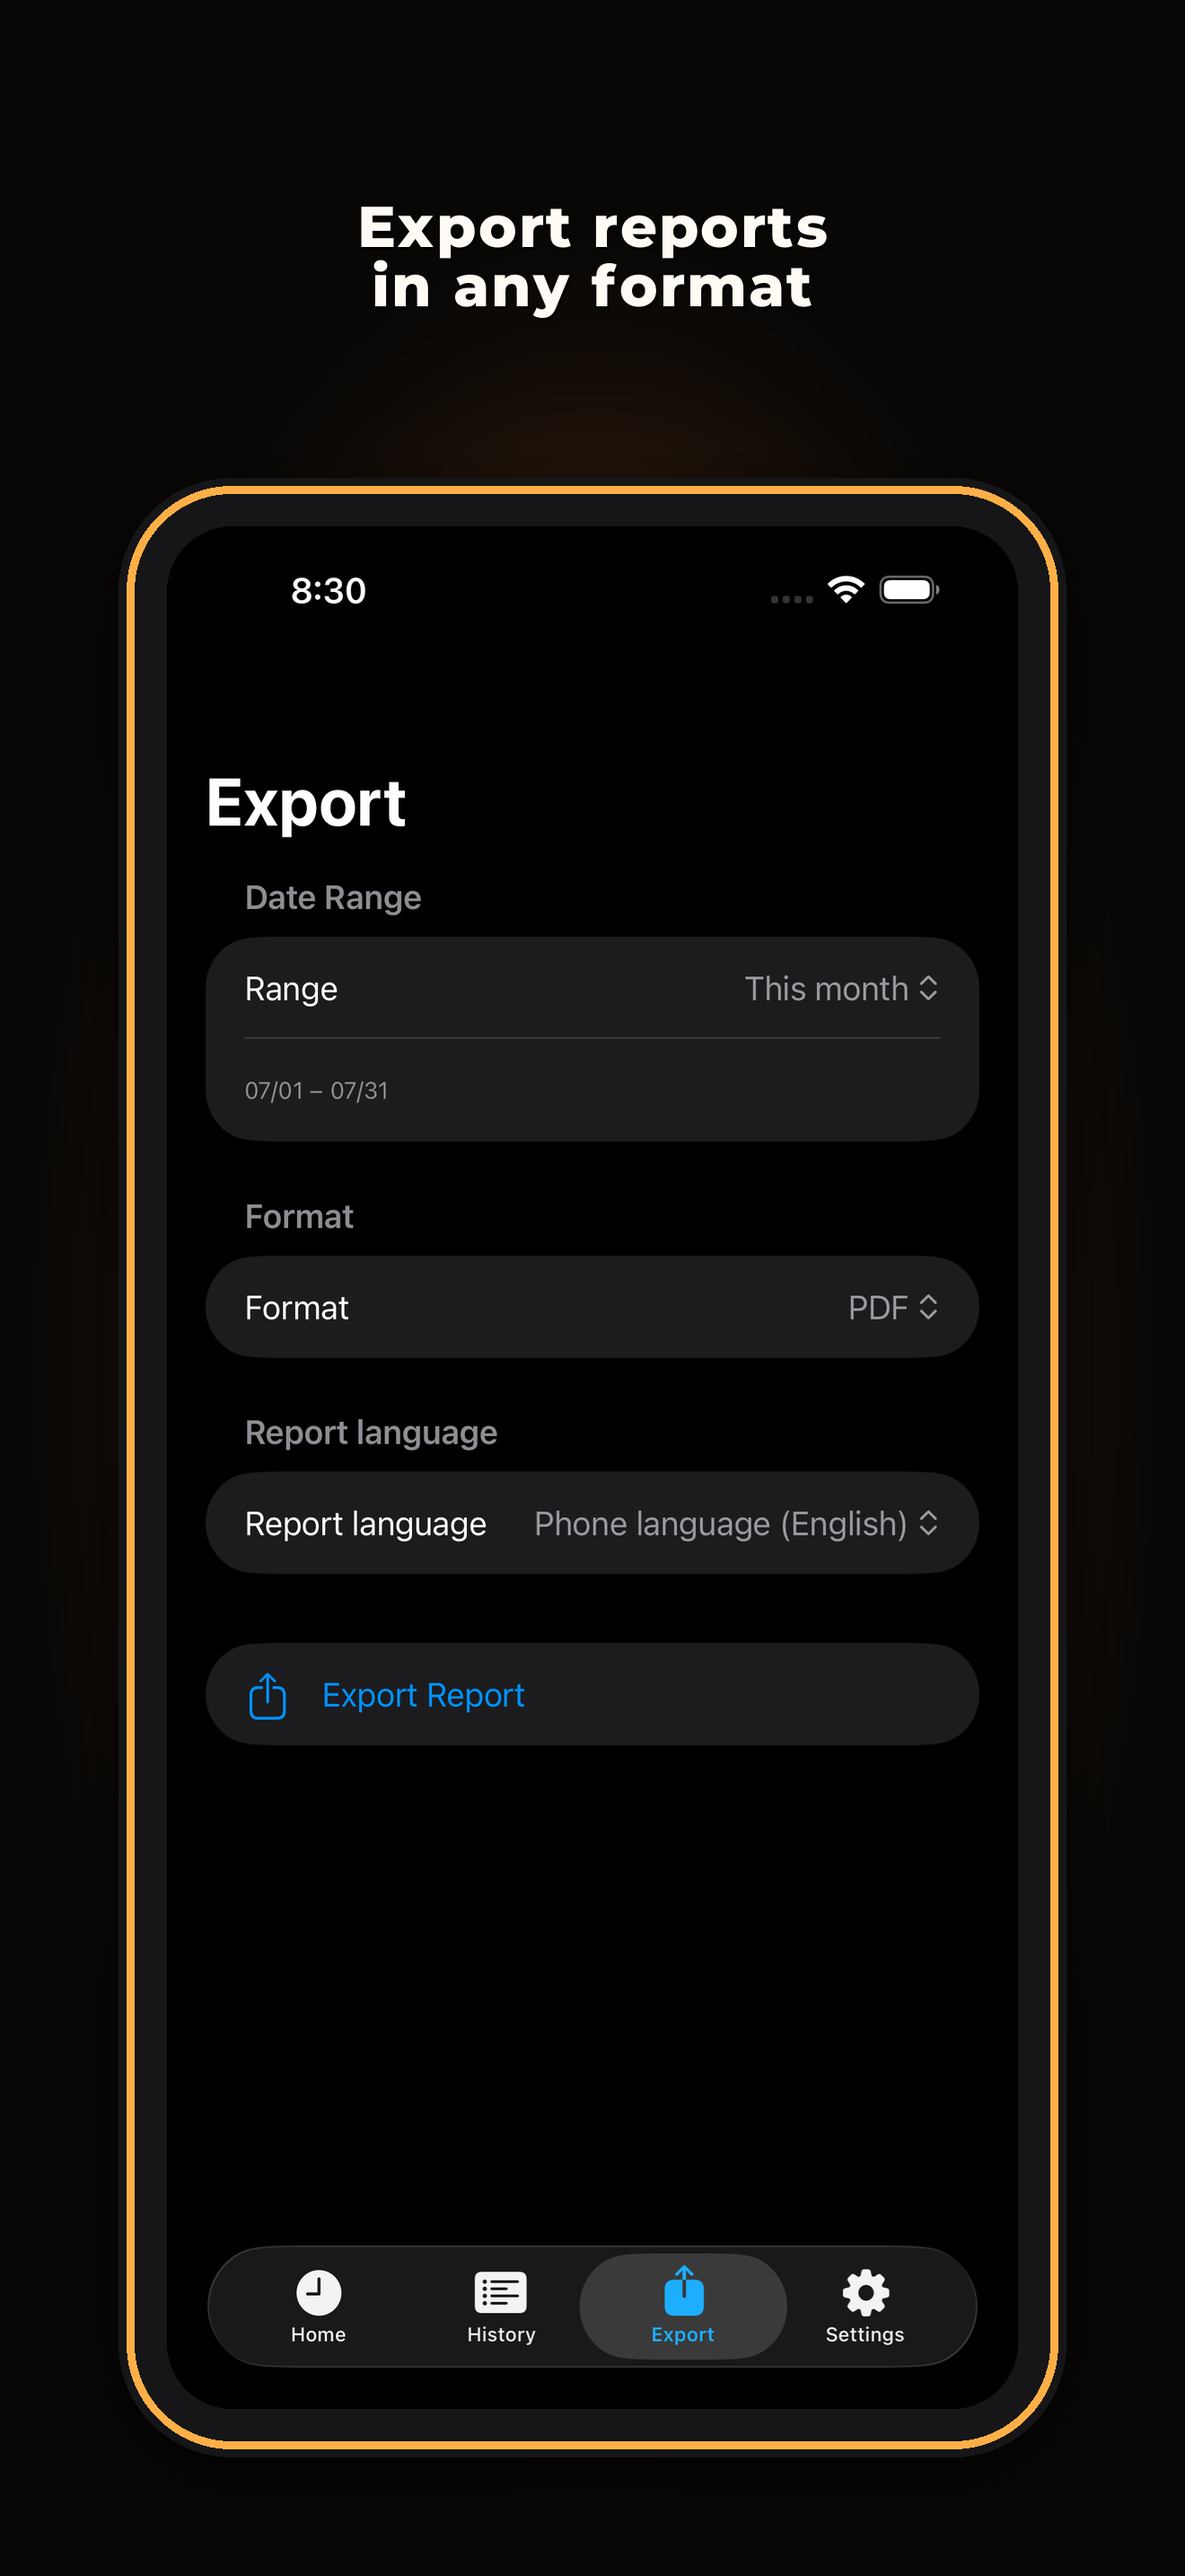
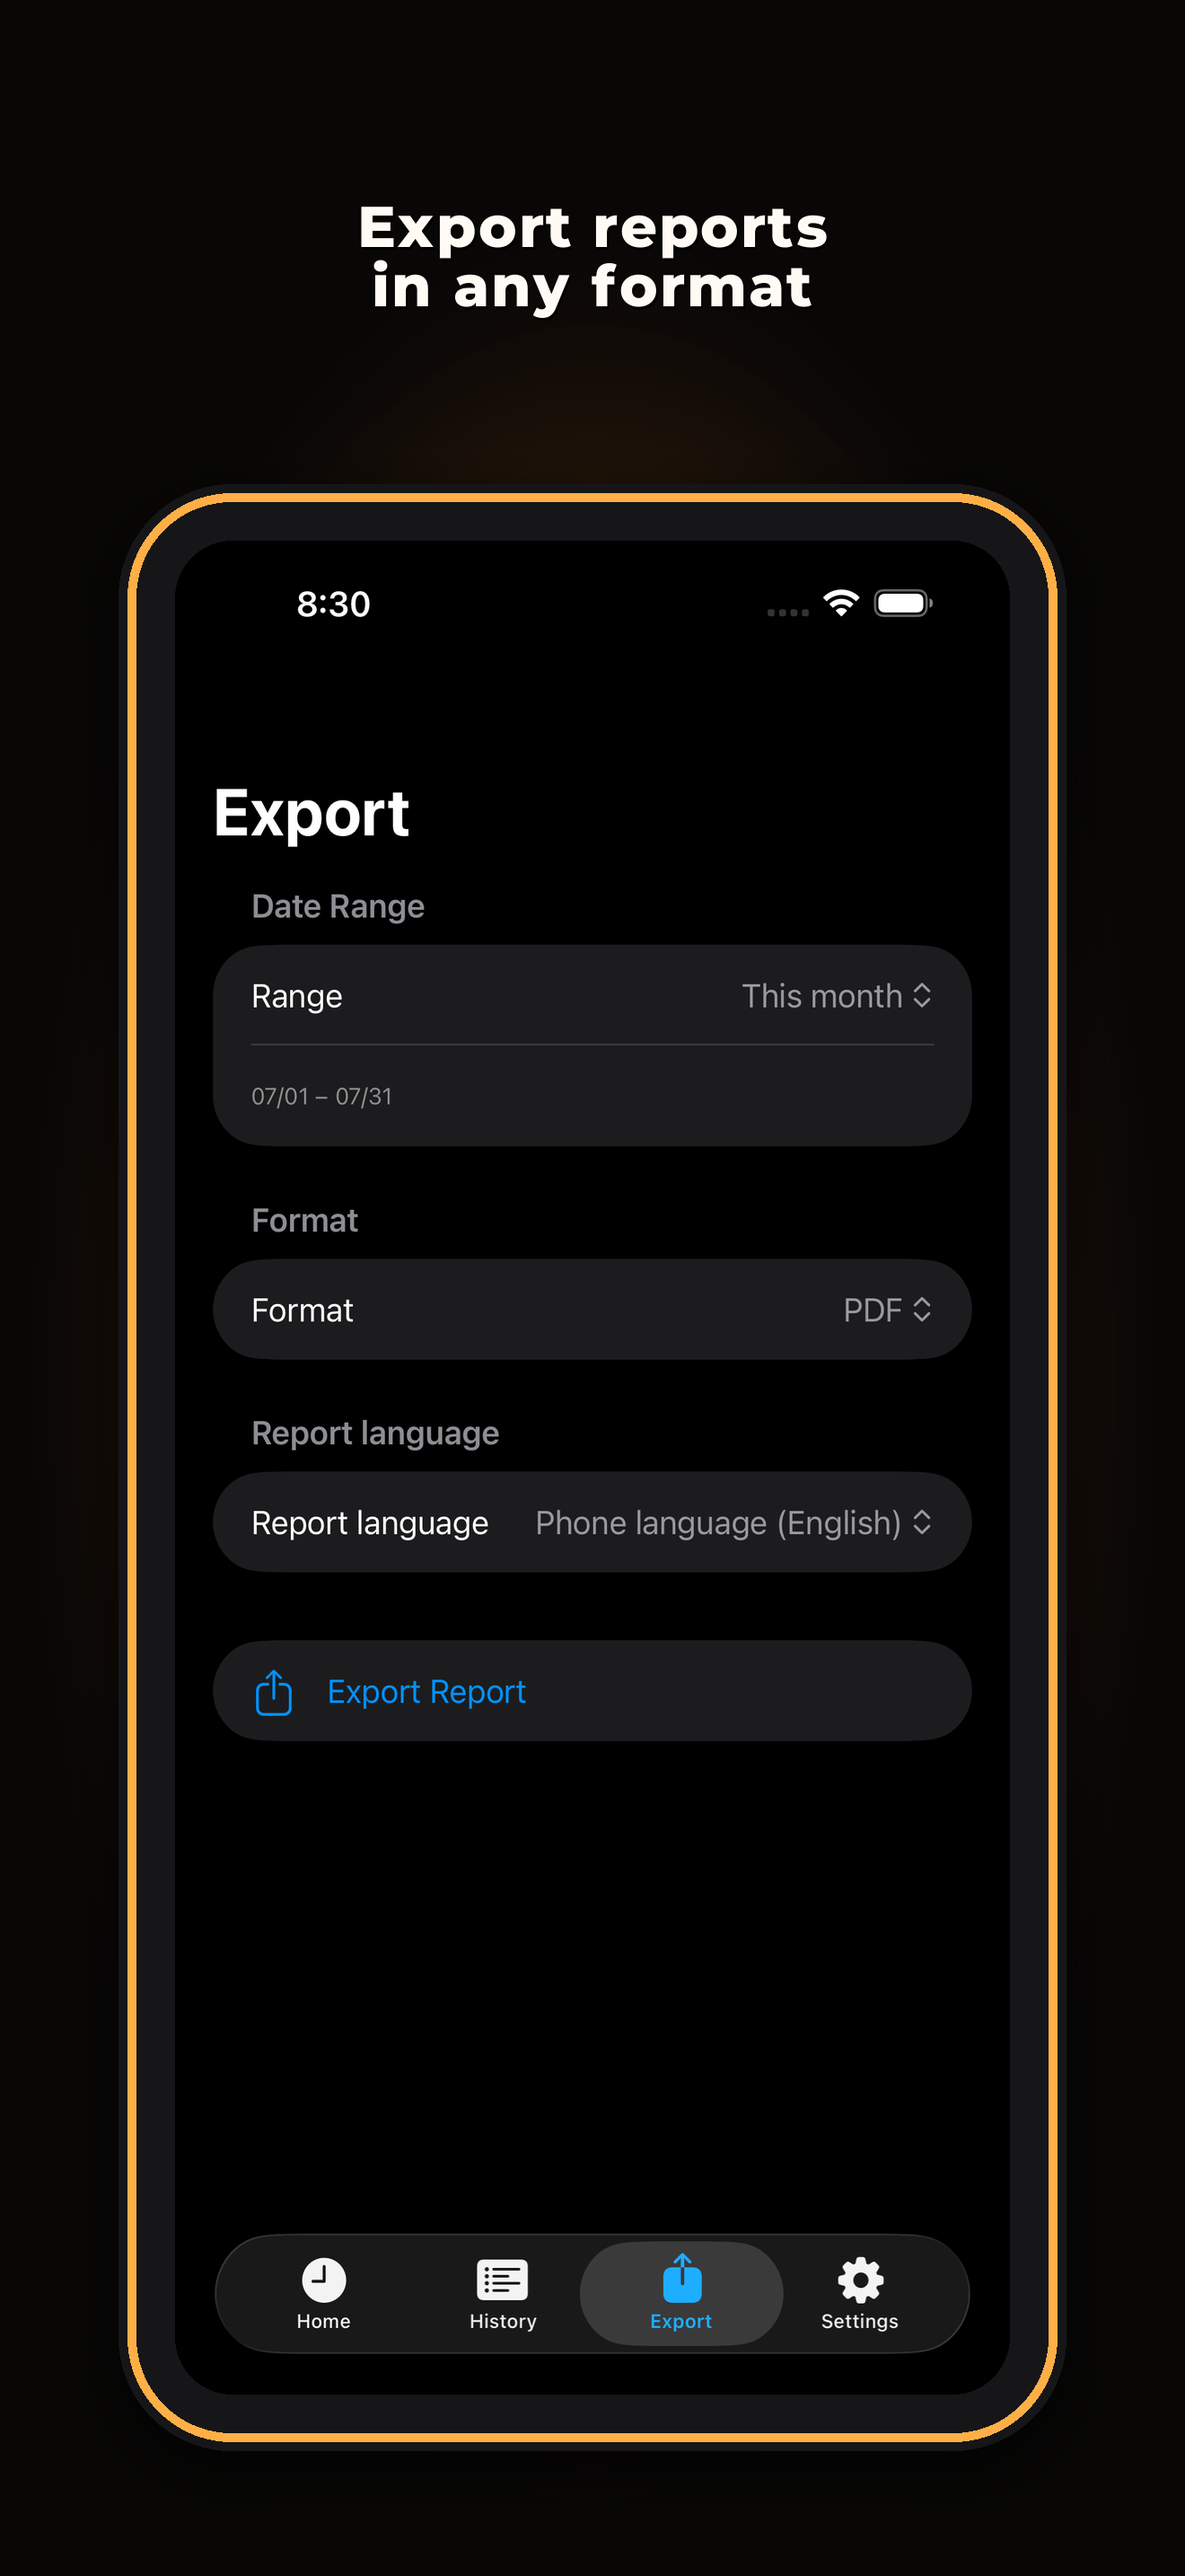
Fix iPhone marketing screenshot pipeline (clip, theme, demo data).
Enrich ~3 weeks of demo shifts (OT/rest/night), keep forced-dark
screenshot chrome, align Settings marketing headlines with the tax
block, harden phone-frame clipping, and add a hard dimension validator.
Recomposed English 6.9\" marketing set for review; he/ar need Mac
CoreText + raw recapture for History density.

diff --git a/HoursTrackerKit/Sources/HoursTrackerKit/PhoneScreenshotDemoData.swift b/HoursTrackerKit/Sources/HoursTrackerKit/PhoneScreenshotDemoData.swift
@@ -25,8 +25,14 @@ public enum PhoneScreenshotDemoData {
         return false
     }
 
+    /// How many past calendar days of closed shifts History lists in screenshot mode.
+    public static let historyLookbackDays = 21
+
     /// Demo Home/History/Export/Settings data. Guest name only — never real PII.
     /// Pass `includeActiveShift: true` (or env) for a live Clock Out / timer Home.
+    ///
+    /// Seeds ~3 weeks of varied shifts (regular OT, rest-day premium, night) so
+    /// History/Export never look like a single sparse row.
     public static func makeDemo(
         now: Date = Date(),
         includeActiveShift: Bool? = nil
@@ -44,24 +50,43 @@ public enum PhoneScreenshotDemoData {
             cal.date(byAdding: .day, value: days, to: today)!
         }
 
-        // Rich History demo: 6 recent days with varied hours + 3 shifts on the
-        // primary day (−1) so the day list isn't a single sparse row.
-        let templates: [(offset: Int, inH: Int, inM: Int, outH: Int, outM: Int, dayType: DayType, id: String)] = [
-            // Primary day (−1): three completed shifts
-            (-1, 7, 0, 11, 15, .regular, "B1000000-0000-4000-8000-000000000011"),
-            (-1, 12, 0, 16, 30, .regular, "B1000000-0000-4000-8000-000000000012"),
-            (-1, 17, 0, 19, 45, .regular, "B1000000-0000-4000-8000-000000000013"),
-            // Five more days with varied lengths
-            (-2, 8, 0, 18, 15, .regular, "B1000000-0000-4000-8000-000000000002"),
-            (-3, 8, 10, 17, 5, .regular, "B1000000-0000-4000-8000-000000000003"),
-            (-4, 7, 45, 16, 20, .regular, "B1000000-0000-4000-8000-000000000004"),
-            (-5, 9, 0, 14, 30, .restDay, "B1000000-0000-4000-8000-000000000005"),
-            (-6, 8, 5, 17, 50, .regular, "B1000000-0000-4000-8000-000000000006"),
-            // Extra depth for month totals / chart
-            (-7, 8, 0, 16, 0, .regular, "B1000000-0000-4000-8000-000000000007"),
-            (-8, 7, 50, 16, 35, .regular, "B1000000-0000-4000-8000-000000000008"),
-            (-9, 8, 15, 18, 0, .regular, "B1000000-0000-4000-8000-000000000009"),
-            (-10, 8, 0, 16, 45, .regular, "B1000000-0000-4000-8000-00000000000A"),
+        // offset, inH, inM, outH, outM, dayType, night, id
+        let templates: [(
+            offset: Int,
+            inH: Int,
+            inM: Int,
+            outH: Int,
+            outM: Int,
+            dayType: DayType,
+            night: Bool,
+            id: String
+        )] = [
+            // Primary day (−1): three completed shifts (dense list + OT)
+            (-1, 7, 0, 11, 15, .regular, false, "B1000000-0000-4000-8000-000000000011"),
+            (-1, 12, 0, 16, 30, .regular, false, "B1000000-0000-4000-8000-000000000012"),
+            (-1, 17, 0, 20, 30, .regular, false, "B1000000-0000-4000-8000-000000000013"),
+            // Week −1
+            (-2, 8, 0, 18, 15, .regular, false, "B1000000-0000-4000-8000-000000000002"),
+            (-3, 8, 10, 17, 5, .regular, false, "B1000000-0000-4000-8000-000000000003"),
+            (-4, 7, 45, 16, 20, .regular, false, "B1000000-0000-4000-8000-000000000004"),
+            (-5, 9, 0, 14, 30, .restDay, false, "B1000000-0000-4000-8000-000000000005"),
+            (-6, 8, 5, 17, 50, .regular, false, "B1000000-0000-4000-8000-000000000006"),
+            // Week −2 (includes a night shift)
+            (-7, 8, 0, 16, 0, .regular, false, "B1000000-0000-4000-8000-000000000007"),
+            (-8, 7, 50, 16, 35, .regular, false, "B1000000-0000-4000-8000-000000000008"),
+            (-9, 8, 15, 18, 0, .regular, false, "B1000000-0000-4000-8000-000000000009"),
+            (-10, 8, 0, 16, 45, .regular, false, "B1000000-0000-4000-8000-00000000000A"),
+            (-11, 22, 0, 6, 0, .regular, true, "B1000000-0000-4000-8000-00000000000B"),
+            (-12, 8, 0, 17, 30, .regular, false, "B1000000-0000-4000-8000-00000000000C"),
+            (-13, 8, 20, 15, 40, .regular, false, "B1000000-0000-4000-8000-00000000000D"),
+            // Week −3
+            (-14, 7, 30, 16, 0, .regular, false, "B1000000-0000-4000-8000-00000000000E"),
+            (-15, 8, 0, 18, 45, .regular, false, "B1000000-0000-4000-8000-00000000000F"),
+            (-16, 9, 0, 13, 0, .restDay, false, "B1000000-0000-4000-8000-000000000010"),
+            (-17, 8, 0, 17, 10, .regular, false, "B1000000-0000-4000-8000-000000000014"),
+            (-18, 7, 40, 16, 55, .regular, false, "B1000000-0000-4000-8000-000000000015"),
+            (-19, 21, 30, 5, 30, .regular, true, "B1000000-0000-4000-8000-000000000016"),
+            (-20, 8, 5, 16, 20, .regular, false, "B1000000-0000-4000-8000-000000000017"),
         ]
 
         var sessions: [WorkSession] = []
@@ -80,14 +105,26 @@ public enum PhoneScreenshotDemoData {
         }
         for t in templates {
             let day = dayOffset(t.offset)
+            var clockIn = time(day, hour: t.inH, minute: t.inM)
+            var clockOut = time(day, hour: t.outH, minute: t.outM)
+            // Overnight night shifts: out is next calendar morning.
+            if t.night, clockOut <= clockIn {
+                clockOut = cal.date(byAdding: .day, value: 1, to: clockOut) ?? clockOut
+            }
+            let resolved = WorkSession.resolveClockPair(
+                clockIn: clockIn,
+                clockOut: clockOut,
+                calendar: cal
+            )
             sessions.append(
                 WorkSession(
                     id: UUID(uuidString: t.id)!,
                     date: day,
-                    clockIn: time(day, hour: t.inH, minute: t.inM),
-                    clockOut: time(day, hour: t.outH, minute: t.outM),
+                    clockIn: resolved.clockIn,
+                    clockOut: resolved.clockOut,
                     isManualEntry: false,
-                    dayType: t.dayType
+                    dayType: t.dayType,
+                    isNightShift: t.night
                 )
             )
         }

diff --git a/HoursTrackerKit/Tests/HoursTrackerKitTests/PhoneScreenshotDemoDataTests.swift b/HoursTrackerKit/Tests/HoursTrackerKitTests/PhoneScreenshotDemoDataTests.swift
@@ -7,7 +7,9 @@ final class PhoneScreenshotDemoDataTests: XCTestCase {
             now: Date(timeIntervalSince1970: 1_784_400_000) // fixed
         )
         XCTAssertFalse(demo.sessions.contains(where: \.isOpen))
-        XCTAssertGreaterThanOrEqual(demo.sessions.count, 10)
+        XCTAssertGreaterThanOrEqual(demo.sessions.count, 20)
+        XCTAssertTrue(demo.sessions.contains(where: \.isNightShift))
+        XCTAssertTrue(demo.sessions.contains(where: { $0.dayType == .restDay }))
         XCTAssertTrue(demo.settings.workerIDNumber.isEmpty)
         XCTAssertFalse(demo.settings.workerFullName.isEmpty)
         XCTAssertNil(demo.settings.locationLatitude)
@@ -17,6 +19,10 @@ final class PhoneScreenshotDemoDataTests: XCTestCase {
         let primary = cal.date(byAdding: .day, value: -1, to: today)!
         let primaryCount = demo.sessions.filter { cal.isDate($0.date, inSameDayAs: primary) }.count
         XCTAssertGreaterThanOrEqual(primaryCount, 3)
+
+        let oldest = demo.sessions.map(\.date).min()!
+        let spanDays = cal.dateComponents([.day], from: oldest, to: today).day ?? 0
+        XCTAssertGreaterThanOrEqual(spanDays, 14)
     }
 
     func testGuestNamesByLanguage() {

diff --git a/HoursTracker/Views/HistoryView.swift b/HoursTracker/Views/HistoryView.swift
@@ -599,10 +599,15 @@ struct HistoryView: View {
     // MARK: - Data
 
     private var filteredSessions: [WorkSession] {
-        // Marketing captures: show a dense multi-day list (not one sparse day).
+        // Marketing captures: show a dense multi-week list (not one sparse day).
         if PhoneScreenshotDemoData.isEnabled {
             let closed = viewModel.sortedSessions.filter { $0.clockOut != nil }
-            let cutoff = calendar.date(byAdding: .day, value: -10, to: calendar.startOfDay(for: Date()))!
+            let lookback = PhoneScreenshotDemoData.historyLookbackDays
+            let cutoff = calendar.date(
+                byAdding: .day,
+                value: -lookback,
+                to: calendar.startOfDay(for: Date())
+            )!
             return closed.filter { $0.date >= cutoff }
         }
         return viewModel.sortedSessions.filter {

diff --git a/HoursTracker/HoursTrackerApp.swift b/HoursTracker/HoursTrackerApp.swift
@@ -43,7 +43,8 @@ struct HoursTrackerApp: App {
             .animation(.easeInOut(duration: 0.45), value: showLaunchSplash)
             .environment(\.locale, appLanguage.locale)
             .environment(\.layoutDirection, appLanguage.layoutDirection)
-            // Marketing / screenshot captures always use dark chrome for consistency.
+            // Marketing captures: force dark for ALL tabs (Home neon + History/Export/
+            // Settings system chrome). Light would make Home vs other tabs inconsistent.
             .preferredColorScheme(isScreenshotMode ? .dark : nil)
             .environmentObject(appLock)
             .environmentObject(appLanguage)

diff --git a/HoursTrackerUITests/PhoneMarketingScreenshotUITests.swift b/HoursTrackerUITests/PhoneMarketingScreenshotUITests.swift
@@ -94,7 +94,7 @@ final class PhoneMarketingScreenshotUITests: XCTestCase {
             if slots.contains("history") {
                 tapTab(app, labels: ["היסטוריה", "History", "السجل"])
                 RunLoop.current.run(until: Date().addingTimeInterval(1.0))
-                // Screenshot mode lists ~6 recent days; keep week strip on the
+                // Screenshot mode lists ~3 weeks of shifts; keep week strip on the
                 // primary demo day (−1) so the calendar looks populated.
                 let cal = Calendar.current
                 let focusDay = cal.date(byAdding: .day, value: -1, to: cal.startOfDay(for: Date()))!

diff --git a/scripts/compose_iphone_marketing_screenshots.py b/scripts/compose_iphone_marketing_screenshots.py
@@ -77,9 +77,10 @@ HEADLINES = {
         "ar": "صدّر تقاريرك\nبأي صيغة",
     },
     "04-settings": {
-        "en": "Configure your pay\nrules and tax",
-        "he": "הגדירו כללי שכר ומס",
-        "ar": "اضبط قواعد أجرك\nوالضريبة",
+        # Matches the tax / pay-rules block the UITest scrolls into frame.
+        "en": "Pay rules and\ntax credits",
+        "he": "כללי שכר\nונקודות זיכוי",
+        "ar": "قواعد الأجر\nونقاط الائتمان",
     },
 }
 
@@ -301,7 +302,8 @@ def compose_one(device: str, lang: str, slot: str) -> Path:
     # Phone-like aspect ≈ 19.5:9
     aspect = 19.5 / 9.0
     # Thick enough bezel so chrome (nav buttons, tab corners) never rides the rim.
-    bezel = max(22, int(min(expect_w, expect_h) * 0.028))
+    # Slightly heavier than earlier drafts after App Store review caught UI bleed.
+    bezel = max(26, int(min(expect_w, expect_h) * 0.032))
     outer_w = max_w
     outer_h = int(outer_w * aspect) + bezel * 2
     if outer_h > max_h:
@@ -372,10 +374,22 @@ def compose_one(device: str, lang: str, slot: str) -> Path:
         width=max(3, ring),
     )
 
+    # Final hard mask on the entire phone layer (body + screen + rim + ring).
+    # Prevents any AA fringe or tab-chrome from painting outside the device silhouette.
     outer_mask = rounded_mask((outer_w, outer_h), outer_radius)
     phone.putalpha(ImageChops.multiply(phone.split()[-1], outer_mask))
 
-    canvas.alpha_composite(phone, (ox, oy))
+    # Composite into a masked slot on the canvas so nothing can leak past the frame.
+    phone_slot = Image.new("RGBA", (expect_w, expect_h), (0, 0, 0, 0))
+    phone_slot.alpha_composite(phone, (ox, oy))
+    slot_mask = Image.new("L", (expect_w, expect_h), 0)
+    ImageDraw.Draw(slot_mask).rounded_rectangle(
+        (ox, oy, ox + outer_w - 1, oy + outer_h - 1),
+        radius=outer_radius,
+        fill=255,
+    )
+    phone_slot.putalpha(ImageChops.multiply(phone_slot.split()[-1], slot_mask))
+    canvas.alpha_composite(phone_slot)
 
     font_size = 64 if expect_w >= 1300 else 56
     if lang in ("he", "ar"):

diff --git a/scripts/validate_iphone_marketing_dimensions.py b/scripts/validate_iphone_marketing_dimensions.py
@@ -1,0 +1,63 @@
+#!/usr/bin/env python3
+"""Fail hard if any iPhone marketing PNG is not an exact App Store size.
+
+Exit codes:
+  0 — all present files match their folder’s expected size
+  1 — at least one mismatch or unreadable file
+"""
+
+from __future__ import annotations
+
+import sys
+from pathlib import Path
+
+from PIL import Image
+
+ROOT = Path(__file__).resolve().parents[1]
+MARKETING = ROOT / "AppStoreScreenshots" / "iphone" / "marketing"
+
+EXPECTED = {
+    "6.9-1320x2868": (1320, 2868),
+    "6.3-1206x2622": (1206, 2622),
+}
+
+
+def main() -> int:
+    if not MARKETING.is_dir():
+        print(f"ERROR: missing {MARKETING}", file=sys.stderr)
+        return 1
+
+    errors = 0
+    checked = 0
+    for device, expect in EXPECTED.items():
+        folder = MARKETING / device
+        if not folder.is_dir():
+            continue
+        for png in sorted(folder.rglob("*.png")):
+            checked += 1
+            try:
+                size = Image.open(png).size
+            except OSError as exc:
+                print(f"ERROR: cannot open {png}: {exc}", file=sys.stderr)
+                errors += 1
+                continue
+            if size != expect:
+                print(
+                    f"ERROR: {png.relative_to(ROOT)} is {size[0]}x{size[1]}, "
+                    f"expected {expect[0]}x{expect[1]}",
+                    file=sys.stderr,
+                )
+                errors += 1
+
+    if checked == 0:
+        print("ERROR: no marketing PNGs found", file=sys.stderr)
+        return 1
+    if errors:
+        print(f"FAILED: {errors} bad file(s) of {checked}", file=sys.stderr)
+        return 1
+    print(f"OK: {checked} marketing PNG(s) match App Store dimensions")
+    return 0
+
+
+if __name__ == "__main__":
+    raise SystemExit(main())
